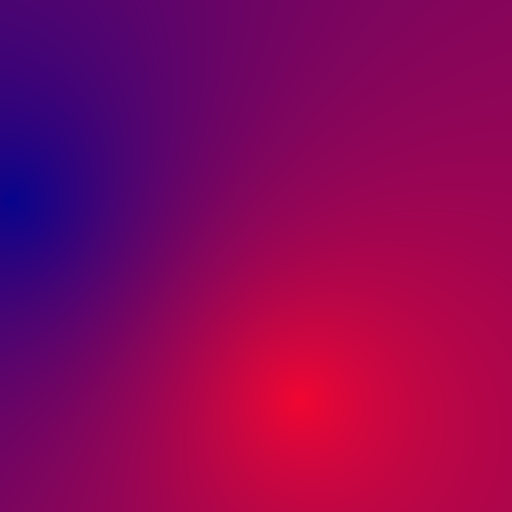
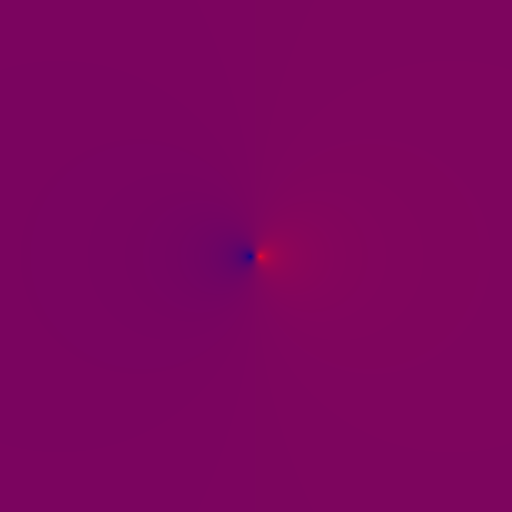
Added a python script to visualize the gradients in 3d to help with research

diff --git a/Gradient-Visualizer.py b/Gradient-Visualizer.py
@@ -1,0 +1,30 @@
+from mpl_toolkits import mplot3d
+
+import numpy as np
+import matplotlib.pyplot as plt
+
+fig1 = plt.figure(1)
+ax = plt.axes(projection='3d')
+
+from PIL import Image
+
+im = Image.open('TestPics/Freeform-Gradient-Test(bw4).png', 'r')
+width, height = im.size
+pixel_values = list(im.getdata())
+pixel_values_reshape = np.array(pixel_values).flatten('C')
+
+print(pixel_values_reshape[slice(0, len(pixel_values_reshape), 4)])
+
+# Data for three-dimensional scattered points
+zdata = pixel_values_reshape[slice(0, len(pixel_values_reshape), 4)]
+xdata = np.array(list(range(255)) * 255)
+ydata = np.array(list([i] * 255 for i in range(255))).flatten('C')
+# ax.scatter3D(xdata, ydata, zdata, c=zdata, cmap='Greys_r');
+x = xdata[slice(0, len(xdata), 80)]
+y = ydata[slice(0, len(ydata), 80)]
+z = zdata[slice(0, len(zdata), 80)]
+ax.plot_trisurf(x, y, z,
+                cmap='Greys_r', edgecolor='none');
+ax.set_facecolor('xkcd:salmon')
+
+plt.show()

diff --git a/Freeform-Gradient.py b/Freeform-Gradient.py
@@ -5,9 +5,9 @@ from scipy.spatial import distance
 w, h = 512, 512
 data = np.zeros((h, w, 3), dtype=np.uint8)
 k = 0
-point1 = (200, 10, 0)
+point1 = (256, 250, 0)
 color1 = (242, 7, 50)
-point2 = (400, 300, 0)
+point2 = (256, 260, 0)
 color2 = (7, 3, 140)
 
 for i in range(w):
